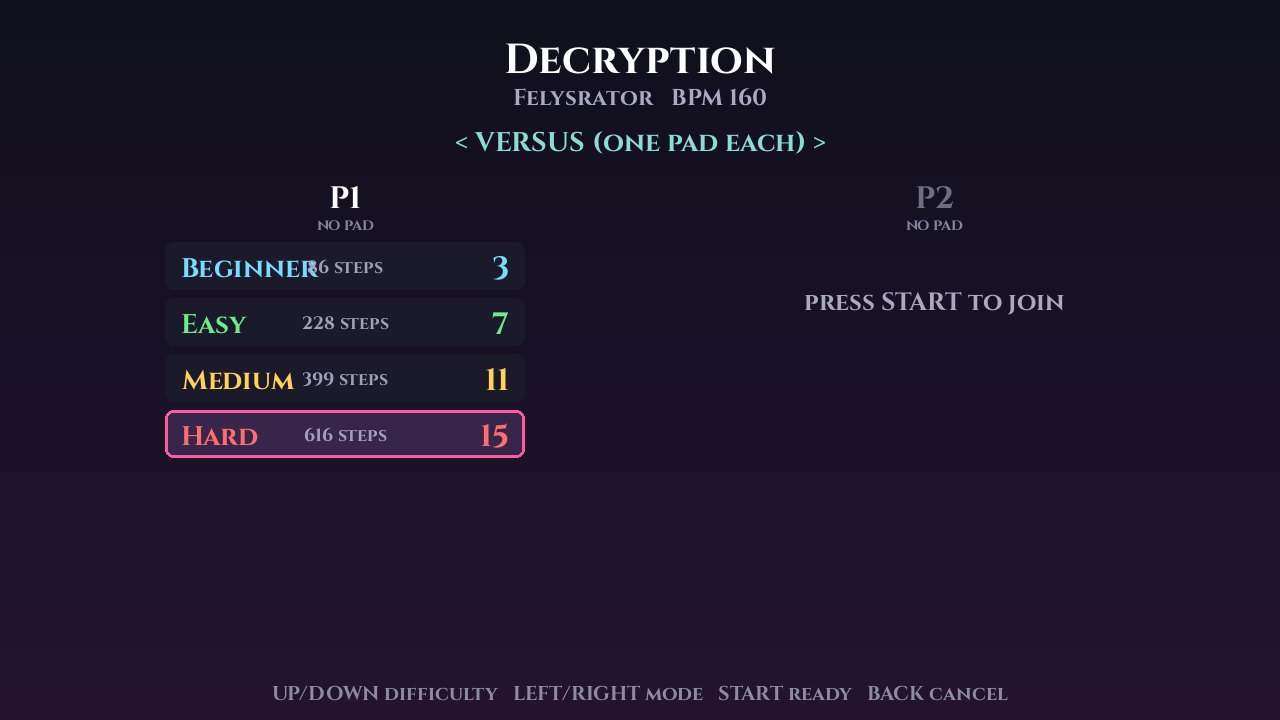
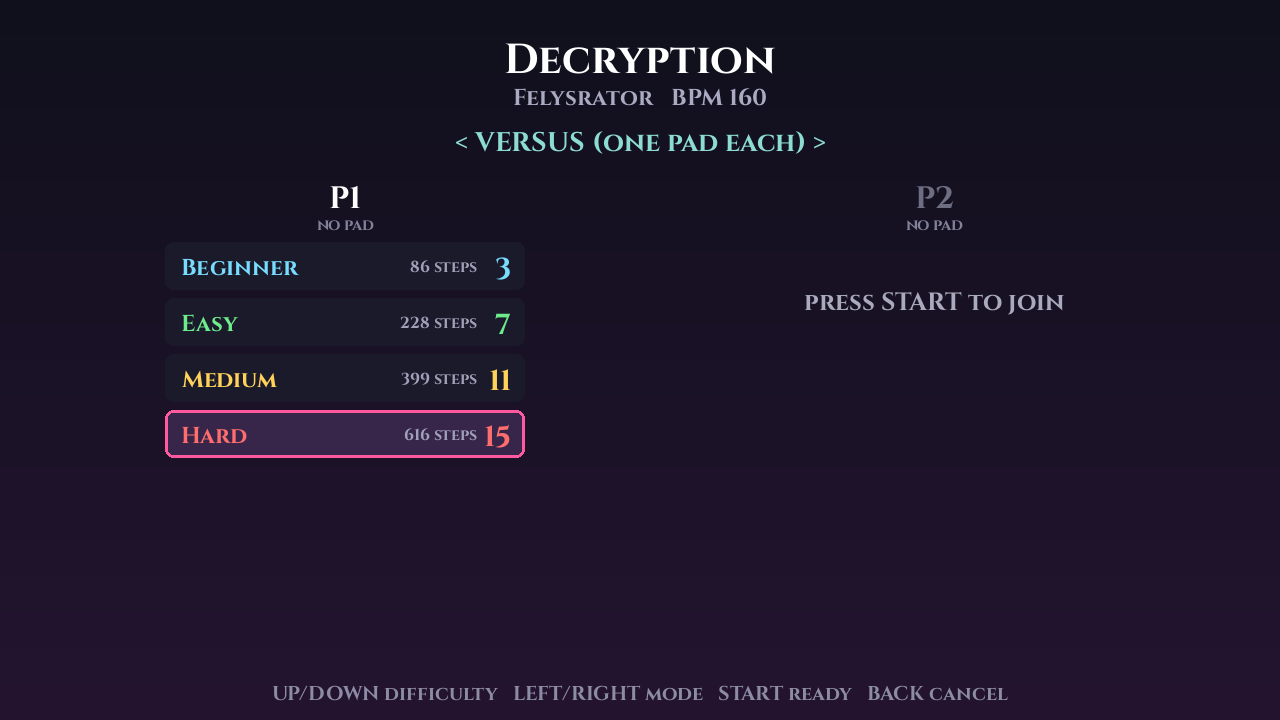
fix: stop the difficulty name colliding with the step count
The step count sat centred in the row on the assumption the name would
never reach the middle, which stopped being true with Cinzel. The row now
has three explicit zones with nothing centred.

diff --git a/ceilidh/screens/select.py b/ceilidh/screens/select.py
@@ -301,12 +301,16 @@ class DifficultySelect(Screen):
                 if selected:
                     border = (90, 230, 120) if self.locked[player] else ACCENT
                     pygame.draw.rect(surface, border, rect, 3, border_radius=8)
+                # three zones across the row rather than a centred label that
+                # the difficulty name can grow into
+                meter_left = rect.right - int(14 * scale)
+                self.fonts.draw(surface, str(chart.meter), (meter_left, y),
+                                int(32 * scale), chart.colour, bold=True, anchor="midright")
+                steps_right = meter_left - int(34 * scale)
+                self.fonts.draw(surface, f"{chart.tap_count()} steps", (steps_right, y),
+                                int(18 * scale), (160, 160, 185), anchor="midright")
                 self.fonts.draw(surface, chart.difficulty, (rect.left + int(16 * scale), y),
-                                int(30 * scale), chart.colour, bold=selected, anchor="midleft")
-                self.fonts.draw(surface, str(chart.meter), (rect.right - int(16 * scale), y),
-                                int(34 * scale), chart.colour, bold=True, anchor="midright")
-                self.fonts.draw(surface, f"{chart.tap_count()} steps", (rect.centerx, y),
-                                int(20 * scale), (160, 160, 185), anchor="center")
+                                int(26 * scale), chart.colour, bold=selected, anchor="midleft")
 
             if self.locked[player]:
                 self.fonts.draw(surface, "READY", (column_x, top + len(charts) * int(56 * scale) + int(16 * scale)),
